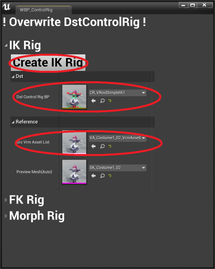
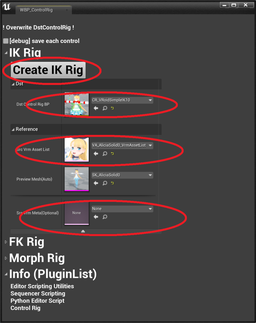
update: WBP layout

Changed region(s): [[0.0, 0.0, 1.0, 0.9814]]

diff --git a/VRM4U/06_controlrig.md b/VRM4U/06_controlrig.md
@@ -84,6 +84,7 @@ UI表示でエラーが出る場合は、前述のプラグインが正しく有
 **テンプレート複製UIより**
  - 上記設定を行ったControlRigをセット
  - 対象モデルのVrmAssetListをセット
+   - 最下段のMetaデータは未指定でOKです。インポート時にHumanoidSkeletonを作成した際、指定ください。
 
 |ControlRigとVrmAssetListをセット|
 |-|
@@ -91,6 +92,8 @@ UI表示でエラーが出る場合は、前述のプラグインが正しく有
 
 `Create IK Rig`ボタンを押し、数十秒待ちます。
 完了したらControlRigをSaveし、**念の為エディタを再起動します。**
+
+
 
 一度スクリプト実行するとエディタが停止しやすくなります。再起動後は問題なく動作します。
 {: .notice--info}
